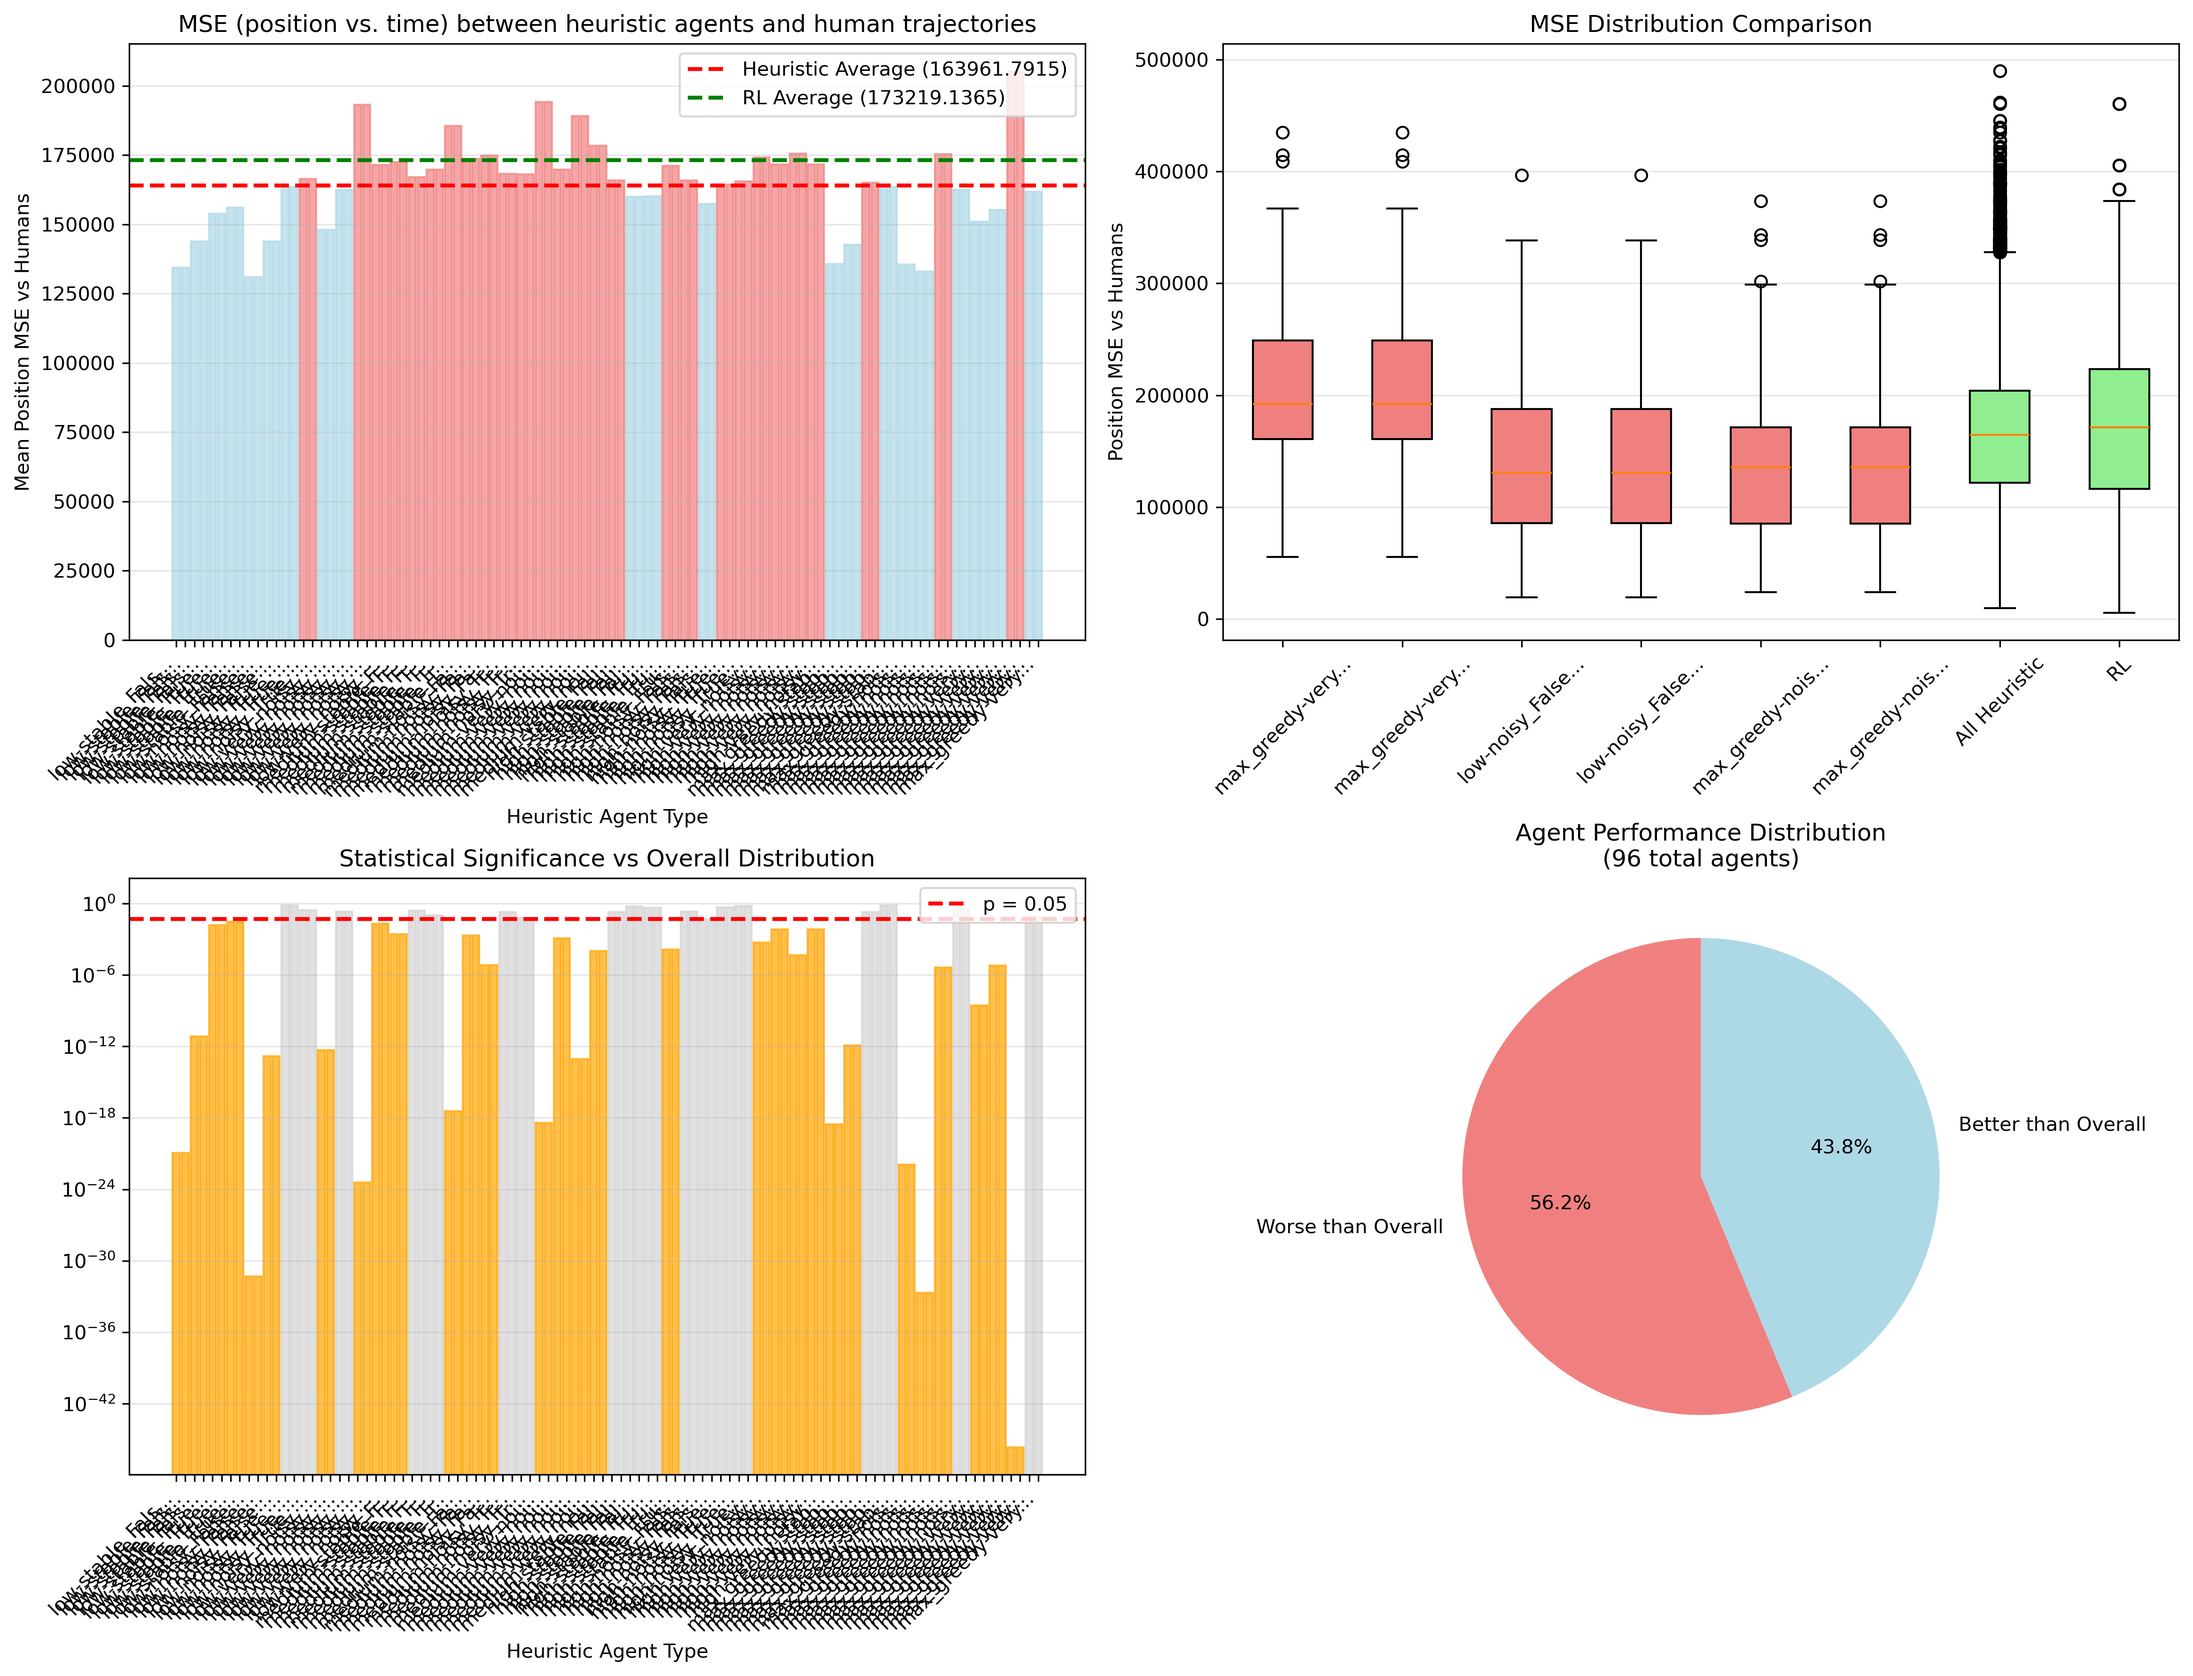
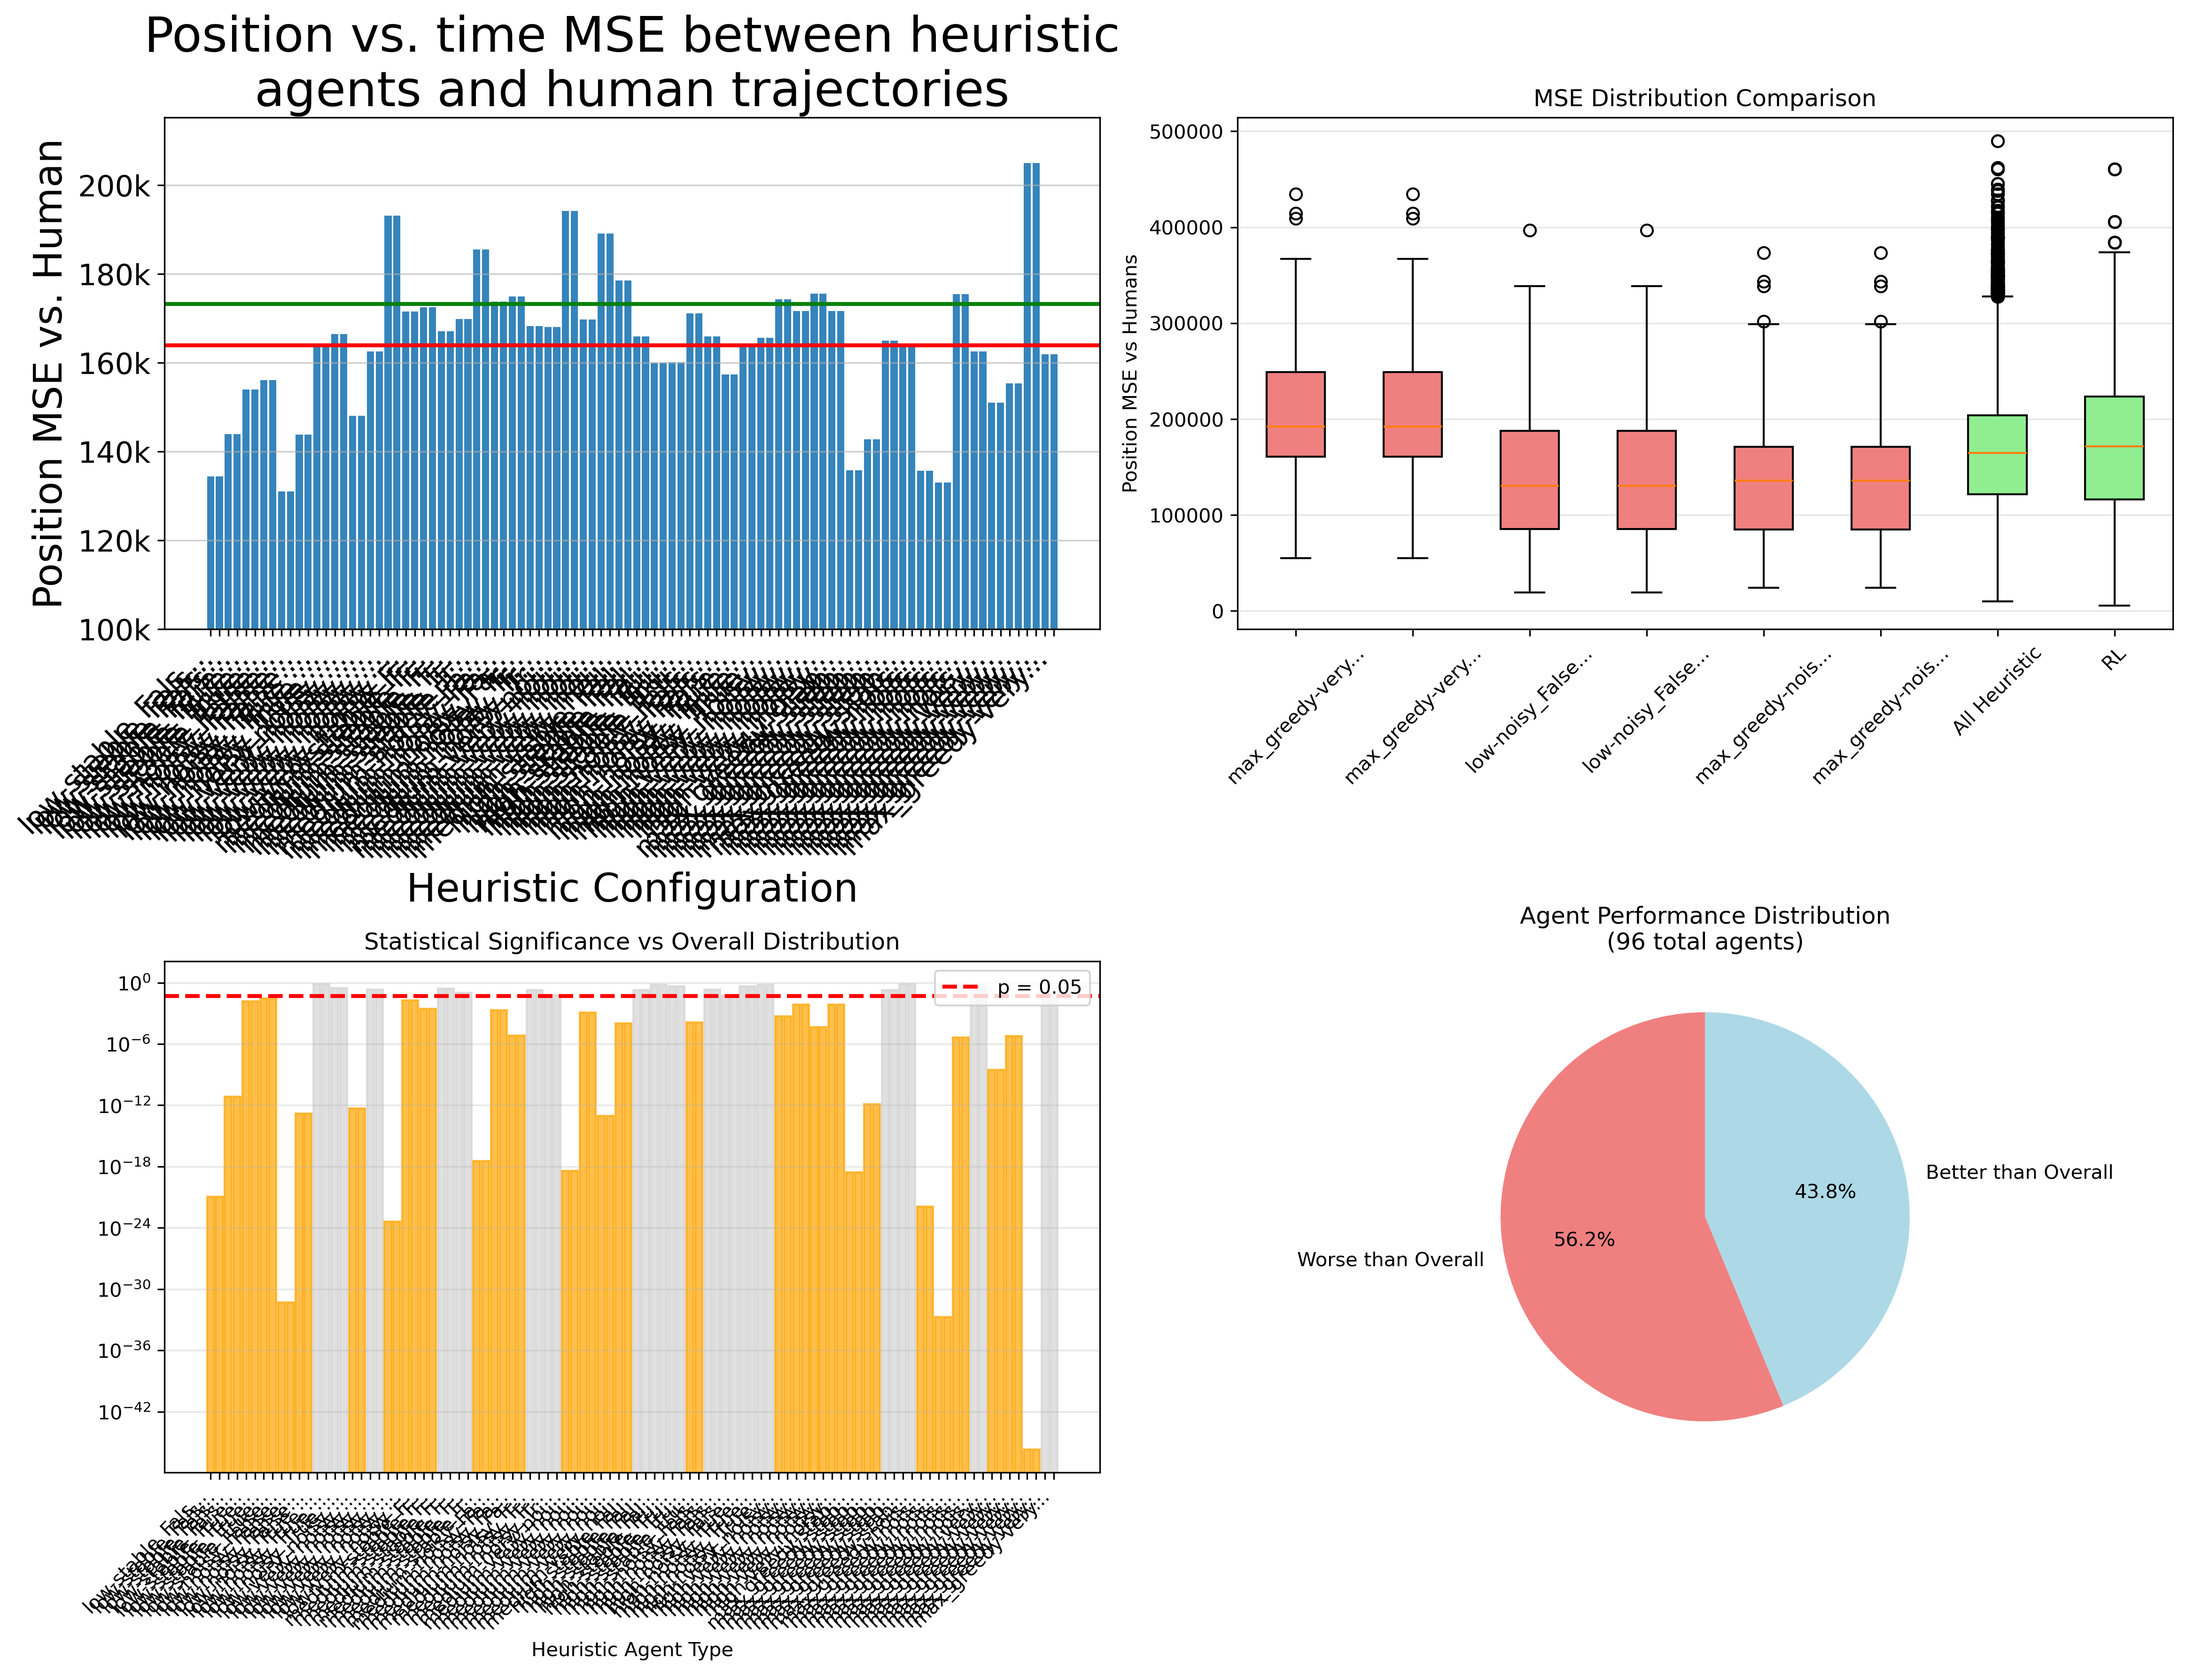
Preparing to re-run rl trajectories

diff --git a/similarity_analysis.py b/similarity_analysis.py
@@ -5,6 +5,7 @@ import os, json, math
 import glob
 
 import pygame
+from matplotlib.ticker import FuncFormatter
 from scipy.optimize import linear_sum_assignment
 from stable_baselines3 import PPO
 from stable_baselines3.common.vec_env import DummyVecEnv, VecNormalize
@@ -2089,21 +2090,39 @@ class SimilarityAnalysis:
                 continue
 
             plt.figure(figsize=(8, 6))
-            plt.grid(True, axis='y', alpha=0.3)
+            plt.grid(True, axis='y', alpha=0.6)
 
-            plt.boxplot([human_vals, rl_vals, heuristic_vals], labels=["Human", "RL", "Heuristic"])
+            #plt.boxplot([human_vals, rl_vals, heuristic_vals], labels=["Human", "RL", "Heuristic"])
 
-            # After plt.boxplot line, add:
-            bp = plt.boxplot([human_vals, rl_vals, heuristic_vals], tick_labels=["Human", "RL", "Heuristic"],patch_artist=True)
+            #bp = plt.violinplot([human_vals, rl_vals, heuristic_vals], tick_labels=["Human", "RL", "Heuristic"],patch_artist=True)
+            parts = plt.violinplot([human_vals, rl_vals, heuristic_vals], positions=[1, 2, 3], showmeans=False,showmedians=True)
+
             # Color the boxes
             colors = ['lightblue', 'lightgreen', 'lightcoral']
-            for patch, color in zip(bp['boxes'], colors):
-                patch.set_facecolor(color)
 
-            plt.title(f"{metric_name.replace('_', ' ').capitalize()}", fontsize=20)
-            plt.ylabel(metric_name.replace('_', ' ').capitalize(), fontsize=18)
-            plt.xlabel("Agent Type", fontsize=18)  # Add this line
-            plt.tick_params(axis='both', which='major', labelsize=15)
+            for i, pc in enumerate(parts['bodies']):
+                pc.set_facecolor(colors[i])
+                pc.set_alpha(1.0)  # Increased alpha to 0.9
+                pc.set_edgecolor('black')  # Added black outline around violins
+                pc.set_linewidth(1)  # Set outline width
+                pc.set_zorder(3)  # Set higher zorder to appear above gridlines
+
+            # Make all box and whisker elements black instead of blue
+            parts['cmedians'].set_color('black')
+            parts['cmedians'].set_linewidth(2)
+            parts['cmins'].set_color('black')
+            parts['cmaxes'].set_color('black')
+            parts['cmedians'].set_zorder(4)  # Keep medians above violins
+            parts['cbars'].set_color('black')
+
+            parts['cbars'].set_visible(False)
+            parts['cmins'].set_visible(False)
+            parts['cmaxes'].set_visible(False)
+
+            plt.title(f"{metric_name.replace('_', ' ').capitalize()}", fontsize=25)
+            plt.ylabel(metric_name.replace('_', ' ').capitalize(), fontsize=22)
+            plt.xlabel("Agent Type", fontsize=22)
+            plt.tick_params(axis='y', which='major', labelsize=20)
 
             plt.show()
 
@@ -3259,27 +3278,22 @@ class SimilarityAnalysis:
 
         valid_agent_names = [name for name in agent_names if agent_mse_results[name]['mean_mse'] is not None]
 
-        bars = ax1.bar(range(len(valid_agent_names)), agent_means, alpha=0.7)
-        ax1.axhline(y=overall_mean_mse, color='red', linestyle='--', linewidth=2,
-                    label=f'Heuristic Average ({overall_mean_mse:.4f})')
-        ax1.axhline(y=rl_mean_mse, color='green', linestyle='--', linewidth=2,
-                    label=f'RL Average ({rl_mean_mse:.4f})')
+        ax1.grid(True, axis='y', alpha=0.6)
 
-        # Color bars based on whether they're above or below overall average
-        for i, (bar, mean_val) in enumerate(zip(bars, agent_means)):
-            if mean_val > overall_mean_mse:
-                bar.set_color('lightcoral')  # Worse than average
-            else:
-                bar.set_color('lightblue')  # Better than average
+        bars = ax1.bar(range(len(valid_agent_names)), agent_means, alpha=0.9)
+        ax1.axhline(y=overall_mean_mse, color='red', linestyle='-', linewidth=2,label=f'Heuristic Average ({overall_mean_mse:.1f})')
+        ax1.axhline(y=rl_mean_mse, color='green', linestyle='-', linewidth=2, label=f'RL Average ({rl_mean_mse:.1f})')
 
-        ax1.set_xlabel('Heuristic Agent Type')
-        ax1.set_ylabel('Mean Position MSE vs Humans')
-        ax1.set_title('MSE (position vs. time) between heuristic agents and human trajectories')
+        ax1.yaxis.set_major_formatter(FuncFormatter(lambda x, p: f'{int(x / 1000)}k'))
+        ax1.tick_params(labelsize=15)
+        ax1.set_xlabel('Heuristic Configuration', fontsize=20)
+        ax1.set_ylabel('Position MSE vs. Human', fontsize=20)
+        ax1.set_title('Position vs. time MSE between heuristic\nagents and human trajectories', fontsize=25)
         ax1.set_xticks(range(len(valid_agent_names)))
-        ax1.set_xticklabels([name[:15] + '...' if len(name) > 15 else name for name in valid_agent_names],
-                            rotation=45, ha='right')
-        ax1.legend()
-        ax1.grid(True, axis='y', alpha=0.3)
+        ax1.set_xticklabels([name[:15] + '...' if len(name) > 15 else name for name in valid_agent_names], rotation=45, ha='right')
+        ax1.set_ylim(bottom=100000)
+        #ax1.legend()
+
 
         # Add value labels on bars
         # for bar, value in zip(bars, agent_means):
@@ -3946,7 +3960,7 @@ class SimilarityAnalysis:
     ####################################################################################################################
 
     def run_analysis(self):
-        load_saved = False
+        load_saved = True
 
         self.config = load_env_config('configs/Monolith_index_August.json')
         self.config['use_stuck_detection'] = False
@@ -3980,7 +3994,7 @@ class SimilarityAnalysis:
         # cross_mse_results = self.analyze_cross_trajectory_position_mse(self.human_trajectories,
         #     self.rl_trajectories,
         #     self.heuristic_trajectories)
-        #
+
         # similarity_results = self.analyze_human_similarity_comparison(
         #     self.human_trajectories,
         #     self.rl_trajectories,
@@ -3988,7 +4002,7 @@ class SimilarityAnalysis:
         # )
         #
         # #Analyze metric similarity
-        # self.analyze_metric_similarity()
+        self.analyze_metric_similarity()
 
 
         #####################################
